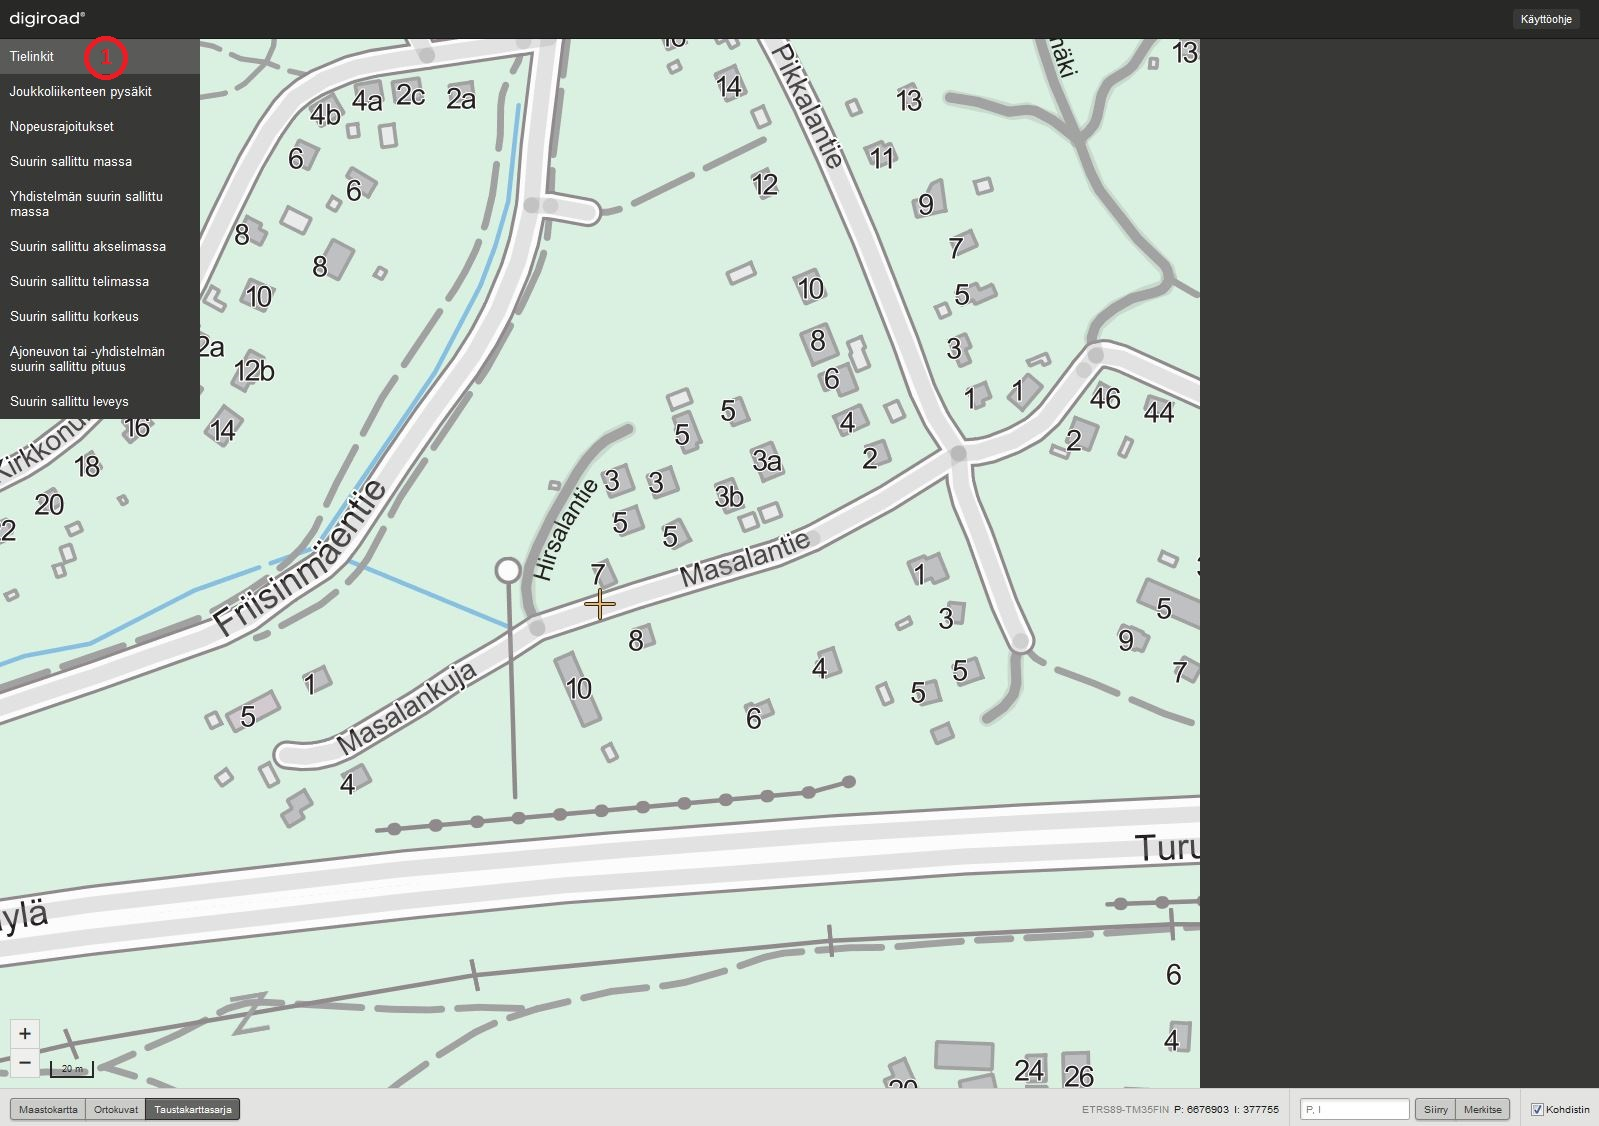
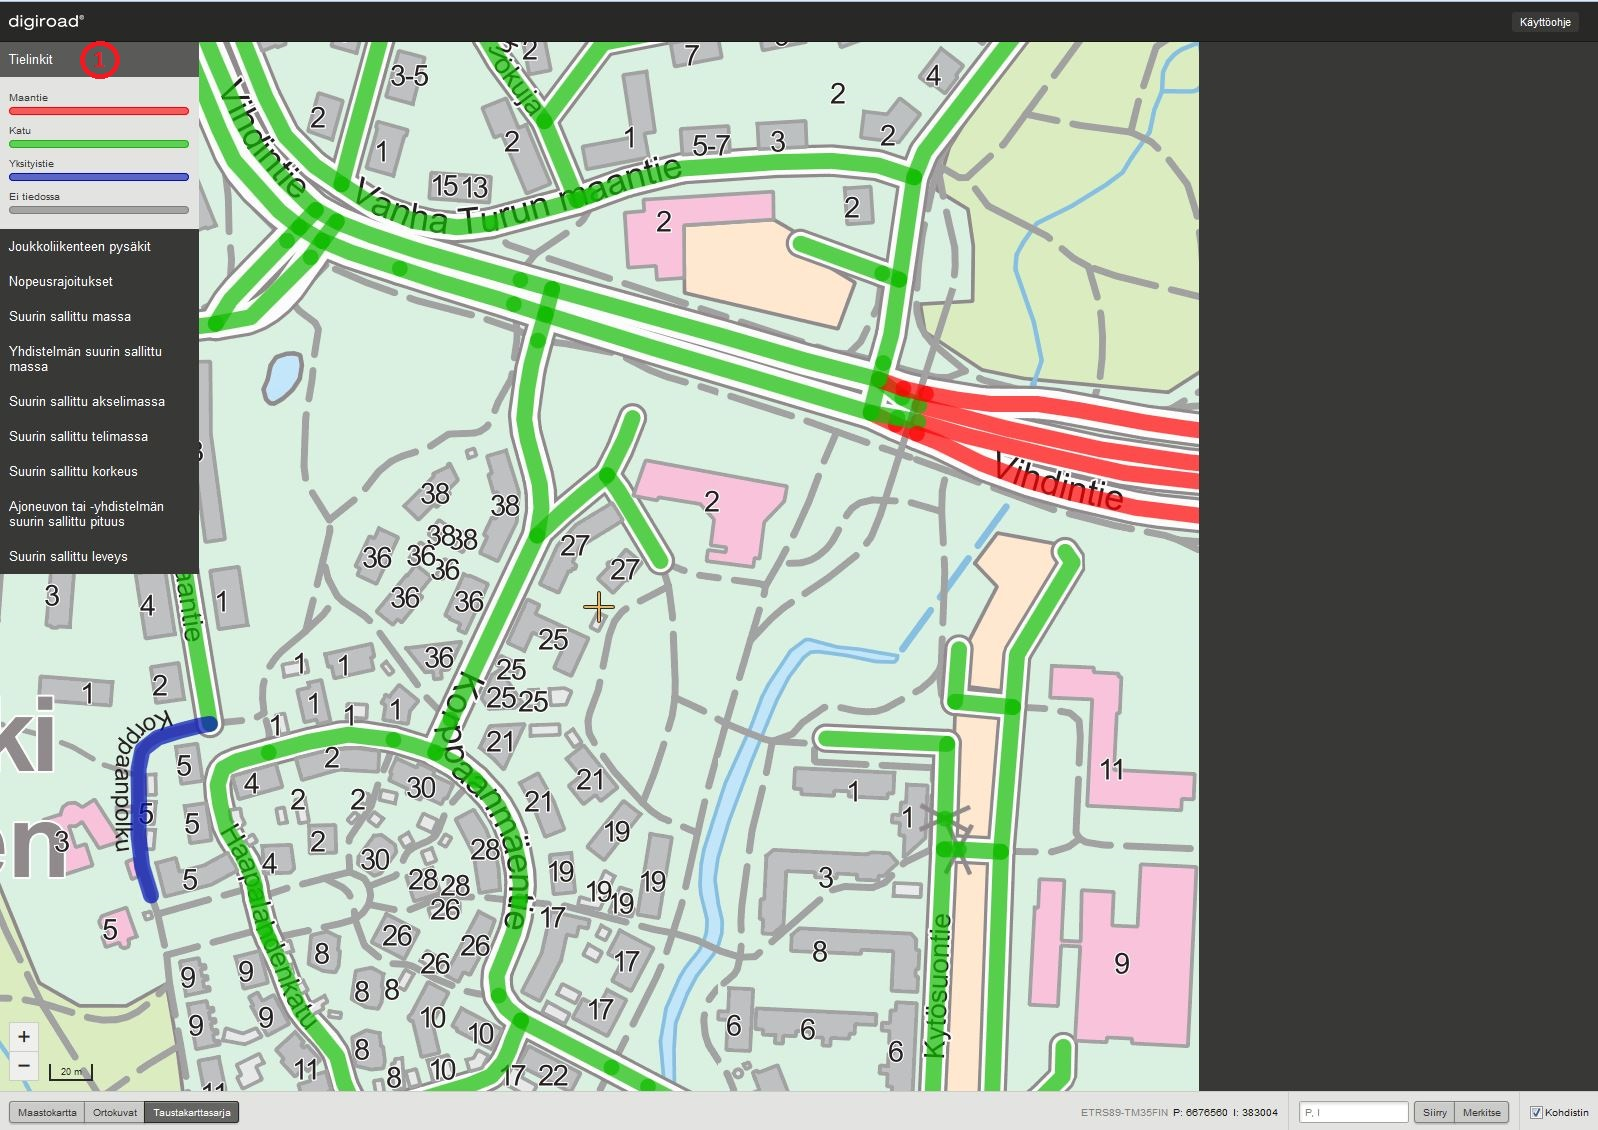
add road link visualization to manual

diff --git a/UI/manual/index.md b/UI/manual/index.md
@@ -226,6 +226,8 @@ Katselutila on sovelluksen tietolajien katselemista varten. Katselutilassa ei vo
 
 Yksitt&auml;isen tielinkin ominaisuustiedot tulevat n&auml;kyviin, kun tielinkin geometriaa kartalla klikataan (4). T&auml;ll&ouml;in tielinkin geometria korostuu kartalla ja sen ominaisuustiedot avautuvat ominaisuustieton&auml;kym&auml;&auml;n (6). Tielinkin ominaisuustietoja ovat tielinkin ID, v&auml;yl&auml;tyyppi, toiminnallinen luokka ja liikennevirran suunta.
 
+Tielinkit on visualisoitu v&auml;yl&auml;tyypin mukaan siten, ett&auml; maantiet ovat punaisia, kadut vihreit&auml; ja yksityistiet sinisi&auml;. Ne tielinkit, joilla ei ole v&auml;yl&auml;tyyppi&auml;, on visualisoitu harmaaksi.
+
 ![Tielinkit](k7.jpg)
 
 _Tielinkit._
